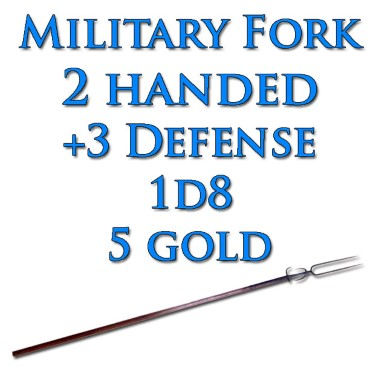
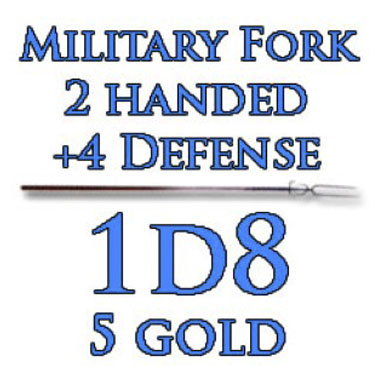
update spears

diff --git a/js/LMS.js b/js/LMS.js
@@ -2,7 +2,7 @@
 var player1 = {
 	name: 'player1',
 	currentCharCard: 9,
-	gold: 5,
+	gold: 50,
 	healthBonusArmor: 0,
 	damageBonusWeapon1: 0,
 	damageBonusWeapon2: 0,
@@ -387,7 +387,7 @@ function player1previousCharacter(){
 			player1.currentCharCard = 32;
 		}
 		console.log('player1.currentCharCard '+player1.currentCharCard);
-		player1CharCard.style.backgroundImage = "url('../steve.yee/img/charCard" + player1.currentCharCard + ".jpg')";
+		player1CharCard.style.backgroundImage = "url('../Last-Man-Standing-Mini-Game/img/charCard" + player1.currentCharCard + ".jpg')";
 };
 
 
@@ -397,7 +397,7 @@ function player1NextCharacter(){
 			player1.currentCharCard = 1;
 		}
 		console.log('player1.currentCharCard '+player1.currentCharCard);
-		player1CharCard.style.backgroundImage = "url('../steve.yee/img/charCard" + player1.currentCharCard + ".jpg')";
+		player1CharCard.style.backgroundImage = "url('../Last-Man-Standing-Mini-Game/img/charCard" + player1.currentCharCard + ".jpg')";
 };
 
 function closeMarket(){
@@ -482,7 +482,7 @@ discardButtonRightHand.addEventListener("click", function() {
 });
 function discardWeaponR(){
 	if (player1.weapon1Card != 0){
-	discardPreview.style.backgroundImage = "url('../steve.yee/img/market/w" + player1.weapon1Card + ".jpg')";
+	discardPreview.style.backgroundImage = "url('../Last-Man-Standing-Mini-Game/img/market/w" + player1.weapon1Card + ".jpg')";
 	clearDiscardPopUp();
 	confirmDiscardOpen();
 	discardButtonRightHand.style.display = "flex";
@@ -503,7 +503,7 @@ discardButtonLeftHand.addEventListener("click", function() {
 });
 function discardWeaponL(){
 	if (player1.weapon2Card != 0){
-	discardPreview.style.backgroundImage = "url('../steve.yee/img/market/w" + player1.weapon2Card + ".jpg')";
+	discardPreview.style.backgroundImage = "url('../Last-Man-Standing-Mini-Game/img/market/w" + player1.weapon2Card + ".jpg')";
 	clearDiscardPopUp();
 	confirmDiscardOpen();
 	discardButtonLeftHand.style.display = "flex";
@@ -521,7 +521,7 @@ discardButtonArmor.addEventListener("click", function() {
 });
 function discardArmor(){
 	if (player1.armorCard != 0){
-	discardPreview.style.backgroundImage = "url('../steve.yee/img/market/a" + player1.armorCard + ".jpg')";
+	discardPreview.style.backgroundImage = "url('../Last-Man-Standing-Mini-Game/img/market/a" + player1.armorCard + ".jpg')";
 	clearDiscardPopUp();
 	confirmDiscardOpen();
 	discardButtonArmor.style.display = "flex";
@@ -539,7 +539,7 @@ discardButtonHealth.addEventListener("click", function() {
 });
 function discardHealth(){
 	if (player1.healthCard != 0){
-		discardPreview.style.backgroundImage = "url('../steve.yee/img/market/healthBonus0" + player1.healthCard + ".jpg')";
+		discardPreview.style.backgroundImage = "url('../Last-Man-Standing-Mini-Game/img/market/healthBonus0" + player1.healthCard + ".jpg')";
 	clearDiscardPopUp();
 	confirmDiscardOpen();
 	discardButtonHealth.style.display = "flex";
@@ -555,7 +555,7 @@ discardButtonDamage.addEventListener("click", function() {
 });
 function discardDamage(){
 	if (player1.damageCard != 0){
-		discardPreview.style.backgroundImage = "url('../steve.yee/img/market/damageBonus" + player1.damageCard + ".jpg')";
+		discardPreview.style.backgroundImage = "url('../Last-Man-Standing-Mini-Game/img/market/damageBonus" + player1.damageCard + ".jpg')";
 	clearDiscardPopUp();
 	confirmDiscardOpen();
 	discardButtonDamage.style.display = "flex";
@@ -571,7 +571,7 @@ discardButtonAttack.addEventListener("click", function() {
 });
 function discardAttack(){
 	if (player1.attackCard != 0){
-		discardPreview.style.backgroundImage = "url('../steve.yee/img/market/attackBonus" + player1.attackCard + ".jpg')";
+		discardPreview.style.backgroundImage = "url('../Last-Man-Standing-Mini-Game/img/market/attackBonus" + player1.attackCard + ".jpg')";
 	clearDiscardPopUp();
 	confirmDiscardOpen();
 	discardButtonAttack.style.display = "flex";
@@ -587,7 +587,7 @@ discardButtonDefense.addEventListener("click", function() {
 });
 function discardDefense(){
 	if (player1.defenseCard != 0){
-		discardPreview.style.backgroundImage = "url('../steve.yee/img/market/defenseBonus" + player1.defenseCard + ".jpg')";
+		discardPreview.style.backgroundImage = "url('../Last-Man-Standing-Mini-Game/img/market/defenseBonus" + player1.defenseCard + ".jpg')";
 	clearDiscardPopUp();
 	confirmDiscardOpen();
 	discardButtonDefense.style.display = "flex";
@@ -954,13 +954,13 @@ var buyT10 = document.querySelectorAll("img")[63];
 var buyT11 = document.querySelectorAll("img")[64];
 var buyT12 = document.querySelectorAll("img")[65];
 
-const updateBuyPreviewDualWield = () => buyPreview.style.backgroundImage = "url('../steve.yee/img/market/w" + shoppingCartRightHand.weapon1Card + ".jpg')";
-const updateBuyPreviewTwoHanded = () => buyPreview.style.backgroundImage = "url('../steve.yee/img/market/w" + shoppingTwoHanded.weapon1Card + ".jpg')";
-const updateBuyPreviewArmor = () => buyPreview.style.backgroundImage = "url('../steve.yee/img/market/a" + shoppingArmor.armorCard + ".jpg')";
-const updateBuyPreviewHealth = () => buyPreview.style.backgroundImage = "url('../steve.yee/img/market/healthBonus0" + shoppingHealth.healthCard + ".jpg')";
-const updateBuyPreviewDamage = () => buyPreview.style.backgroundImage = "url('../steve.yee/img/market/damageBonus" + shoppingDamage.damageCard + ".jpg')";
-const updateBuyPreviewAttack = () => buyPreview.style.backgroundImage = "url('../steve.yee/img/market/attackBonus" + shoppingAttack.attackCard + ".jpg')";
-const updateBuyPreviewDefense = () => buyPreview.style.backgroundImage = "url('../steve.yee/img/market/defenseBonus" + shoppingDefense.defenseCard + ".jpg')";
+const updateBuyPreviewDualWield = () => buyPreview.style.backgroundImage = "url('../Last-Man-Standing-Mini-Game/img/market/w" + shoppingCartRightHand.weapon1Card + ".jpg')";
+const updateBuyPreviewTwoHanded = () => buyPreview.style.backgroundImage = "url('../Last-Man-Standing-Mini-Game/img/market/w" + shoppingTwoHanded.weapon1Card + ".jpg')";
+const updateBuyPreviewArmor = () => buyPreview.style.backgroundImage = "url('../Last-Man-Standing-Mini-Game/img/market/a" + shoppingArmor.armorCard + ".jpg')";
+const updateBuyPreviewHealth = () => buyPreview.style.backgroundImage = "url('../Last-Man-Standing-Mini-Game/img/market/healthBonus0" + shoppingHealth.healthCard + ".jpg')";
+const updateBuyPreviewDamage = () => buyPreview.style.backgroundImage = "url('../Last-Man-Standing-Mini-Game/img/market/damageBonus" + shoppingDamage.damageCard + ".jpg')";
+const updateBuyPreviewAttack = () => buyPreview.style.backgroundImage = "url('../Last-Man-Standing-Mini-Game/img/market/attackBonus" + shoppingAttack.attackCard + ".jpg')";
+const updateBuyPreviewDefense = () => buyPreview.style.backgroundImage = "url('../Last-Man-Standing-Mini-Game/img/market/defenseBonus" + shoppingDefense.defenseCard + ".jpg')";
 // EVENT LISTENERS
 //Click on STORE ITEMS
 buyW1.addEventListener("click", function() {
@@ -1994,7 +1994,7 @@ buyW18.addEventListener("click", function() {
 		shoppingTwoHanded.weapon1Bonus = -1;
 		shoppingTwoHanded.damageBonusWeapon1 = 0;
 		shoppingTwoHanded.attackBonusWeapon1 = 0;
-		shoppingTwoHanded.defenseBonusShield1 = 3;
+		shoppingTwoHanded.defenseBonusShield1 = 4;
 		shoppingTwoHanded.damageBonusShield1 = 0;
 		shoppingTwoHanded.gold = 5;
 		shoppingTwoHanded.weapon2 = -1;
@@ -2021,17 +2021,17 @@ buyW19.addEventListener("click", function() {
 		confirmBuyOpen();
 		shoppingTwoHanded.weapon1Card = 29;
 		updateBuyPreviewTwoHanded();
-		if (player1.weapon1Card != 29 && player1.weapon2Card != 29 && player1.gold >= 8){
-		wantToBuy.innerHTML = "Do you want to buy the Pike for ";
-		wantToBuyGoldCost.innerHTML = "8 gold?";
-		shoppingTwoHanded.gold = 8;
-		shoppingTwoHanded.weapon1 = 10;
+		if (player1.weapon1Card != 29 && player1.weapon2Card != 29 && player1.gold >= 10){
+		wantToBuy.innerHTML = "Sweet Victory and glory, Pike for ";
+		wantToBuyGoldCost.innerHTML = "10 gold?";
+		shoppingTwoHanded.gold = 10;
+		shoppingTwoHanded.weapon1 = 12;
 		shoppingTwoHanded.weapon1Bonus = -1;
 		shoppingTwoHanded.damageBonusWeapon1 = 0;
 		shoppingTwoHanded.attackBonusWeapon1 = 0;
-		shoppingTwoHanded.defenseBonusShield1 = 3;
+		shoppingTwoHanded.defenseBonusShield1 = 4;
 		shoppingTwoHanded.damageBonusShield1 = 0;
-		shoppingTwoHanded.gold = 8;
+		shoppingTwoHanded.gold = 10;
 		shoppingTwoHanded.weapon2 = -1;
 		shoppingTwoHanded.weapon2Bonus = -1;
 		shoppingTwoHanded.damageBonusWeapon2 = 0;
@@ -2043,7 +2043,7 @@ buyW19.addEventListener("click", function() {
 		wantToBuy.innerHTML = "You already own this Pike";
 		wantToBuyGoldCost.innerHTML = "";
 		alreadyOwn();
-	} else if (player1.gold < 8){
+	} else if (player1.gold < 10){
 		console.log('not enough gold');
 		wantToBuy.innerHTML = "You cannot afford this Pike."
 		wantToBuyGoldCost.innerHTML = "  You only have " + player1.gold + " gold?";
@@ -2056,17 +2056,17 @@ buyW20.addEventListener("click", function() {
 		confirmBuyOpen();
 		shoppingTwoHanded.weapon1Card = 30;
 		updateBuyPreviewTwoHanded();
-		if (player1.weapon1Card != 30 && player1.weapon2Card != 30 && player1.gold >= 10){
-		wantToBuy.innerHTML = "Do you want to buy the Halberd for ";
-		wantToBuyGoldCost.innerHTML = "10 gold?";
-		shoppingTwoHanded.gold = 10;
-		shoppingTwoHanded.weapon1 = 12;
+		if (player1.weapon1Card != 30 && player1.weapon2Card != 30 && player1.gold >= 15){
+		wantToBuy.innerHTML = "Grusome wounds inflicted, Halberd for ";
+		wantToBuyGoldCost.innerHTML = "15 gold?";
+		shoppingTwoHanded.gold = 15;
+		shoppingTwoHanded.weapon1 = 20;
 		shoppingTwoHanded.weapon1Bonus = -1;
 		shoppingTwoHanded.damageBonusWeapon1 = 0;
 		shoppingTwoHanded.attackBonusWeapon1 = 0;
-		shoppingTwoHanded.defenseBonusShield1 = 3;
+		shoppingTwoHanded.defenseBonusShield1 = 4;
 		shoppingTwoHanded.damageBonusShield1 = 0;
-		shoppingTwoHanded.gold = 10;
+		shoppingTwoHanded.gold = 15;
 		shoppingTwoHanded.weapon2 = -1;
 		shoppingTwoHanded.weapon2Bonus = -1;
 		shoppingTwoHanded.damageBonusWeapon2 = 0;
@@ -2078,7 +2078,7 @@ buyW20.addEventListener("click", function() {
 		wantToBuy.innerHTML = "You already own this Halberd";
 		wantToBuyGoldCost.innerHTML = "";
 		alreadyOwn();
-	} else if (player1.gold < 10){
+	} else if (player1.gold < 15){
 		console.log('not enough gold');
 		wantToBuy.innerHTML = "You cannot afford this Halberd."
 		wantToBuyGoldCost.innerHTML = "  You only have " + player1.gold + " gold?";
@@ -3086,14 +3086,14 @@ function refresh(){
 	player1.attack =  player1.attackBonusSkill + player1.attackBonusWeapon1 + player1.attackBonusWeapon2;	
 
 // CARD UPDATES
-		player1CharCard.style.backgroundImage = "url('../steve.yee/img/charCard" + player1.currentCharCard + ".jpg')";
-		player1Weapon1Card.style.backgroundImage = "url('../steve.yee/img/market/w" + player1.weapon1Card + ".jpg')";
-		player1ArmorCard.style.backgroundImage = "url('../steve.yee/img/market/a" + player1.armorCard + ".jpg')";
-		player1Weapon2Card.style.backgroundImage = "url('../steve.yee/img/market/w" + player1.weapon2Card + ".jpg')";
-		player1HealthCard.style.backgroundImage = "url('../steve.yee/img/market/healthBonus0" + player1.healthCard + ".jpg')";
-		player1DamageCard.style.backgroundImage = "url('../steve.yee/img/market/damageBonus" + player1.damageCard + ".jpg')";
-		player1AttackCard.style.backgroundImage = "url('../steve.yee/img/market/attackBonus" + player1.attackCard + ".jpg')";
-		player1DefenseCard.style.backgroundImage = "url('../steve.yee/img/market/defenseBonus" + player1.defenseCard + ".jpg')";
+		player1CharCard.style.backgroundImage = "url('../Last-Man-Standing-Mini-Game/img/charCard" + player1.currentCharCard + ".jpg')";
+		player1Weapon1Card.style.backgroundImage = "url('../Last-Man-Standing-Mini-Game/img/market/w" + player1.weapon1Card + ".jpg')";
+		player1ArmorCard.style.backgroundImage = "url('../Last-Man-Standing-Mini-Game/img/market/a" + player1.armorCard + ".jpg')";
+		player1Weapon2Card.style.backgroundImage = "url('../Last-Man-Standing-Mini-Game/img/market/w" + player1.weapon2Card + ".jpg')";
+		player1HealthCard.style.backgroundImage = "url('../Last-Man-Standing-Mini-Game/img/market/healthBonus0" + player1.healthCard + ".jpg')";
+		player1DamageCard.style.backgroundImage = "url('../Last-Man-Standing-Mini-Game/img/market/damageBonus" + player1.damageCard + ".jpg')";
+		player1AttackCard.style.backgroundImage = "url('../Last-Man-Standing-Mini-Game/img/market/attackBonus" + player1.attackCard + ".jpg')";
+		player1DefenseCard.style.backgroundImage = "url('../Last-Man-Standing-Mini-Game/img/market/defenseBonus" + player1.defenseCard + ".jpg')";
 		player1DefenseCounter.innerHTML = player1.defense;
 		enemy1HealthCounter.innerHTML = enemyArray[currentEnemyCard].currentHealth;
 
@@ -3102,8 +3102,8 @@ function refresh(){
 
 // Damage popup images
 
-		logWeapon1PopUp.style.backgroundImage = "url('../steve.yee/img/market/w" + player1.weapon1Card + ".jpg')";
-		logWeapon2PopUp.style.backgroundImage = "url('../steve.yee/img/market/w" + player1.weapon2Card + ".jpg')";	
+		logWeapon1PopUp.style.backgroundImage = "url('../Last-Man-Standing-Mini-Game/img/market/w" + player1.weapon1Card + ".jpg')";
+		logWeapon2PopUp.style.backgroundImage = "url('../Last-Man-Standing-Mini-Game/img/market/w" + player1.weapon2Card + ".jpg')";	
 		popUpOuch.style.display = 'none';
 		popUpHitEnemy.style.display = 'none';
 		deathCountPopup.style.display = 'none';
@@ -3131,7 +3131,7 @@ refresh();
 
 // BOOTUP and Character create
 addHealthBonus();
-player1CharCard.style.backgroundImage = "url('../steve.yee/img/charCard" + player1.currentCharCard + ".jpg')";
+player1CharCard.style.backgroundImage = "url('../Last-Man-Standing-Mini-Game/img/charCard" + player1.currentCharCard + ".jpg')";
 updateGold();
 player1GotoCharacterSelect();
 clearStore();
@@ -3139,7 +3139,7 @@ clearStore();
 
 const newEnemyApproaches = (enemyCode) => {
 	enemy1CharCard.style.display = 'block'
-	enemy1CharCard.style.backgroundImage = "url('../steve.yee/img/enemyCard" + currentEnemyCard + ".jpg')";
+	enemy1CharCard.style.backgroundImage = "url('../Last-Man-Standing-Mini-Game/img/enemyCard" + currentEnemyCard + ".jpg')";
 
 };
 
@@ -3300,7 +3300,7 @@ function changeEnemy(){
 			currentEnemyCard = 1;
 		}
 		console.log('change Enemy  '+currentEnemyCard);
-		enemy1CharCard.style.backgroundImage = "url('../steve.yee/img/enemyCard" + currentEnemyCard + ".jpg')";
+		enemy1CharCard.style.backgroundImage = "url('../Last-Man-Standing-Mini-GameLast-Man-Standing-Mini-Game/img/enemyCard" + currentEnemyCard + ".jpg')";
 };
 
 

diff --git a/index.html b/index.html
@@ -51,7 +51,7 @@
 		</div>
 
 		<p id="welcomeMarket">Welcome, you need weapons, armor or training?</p>
-		<p>I don't do refunds on gear under any circumstance. You will discard replaced gear.</p>
+		<p>Get ready, </p>
 		<button id="closeCharacterCreation">I'm Ready! Leave the market</button>
 		<h2>You have <span id="player1Gold"></span> gold.</h2>
 	</div>
